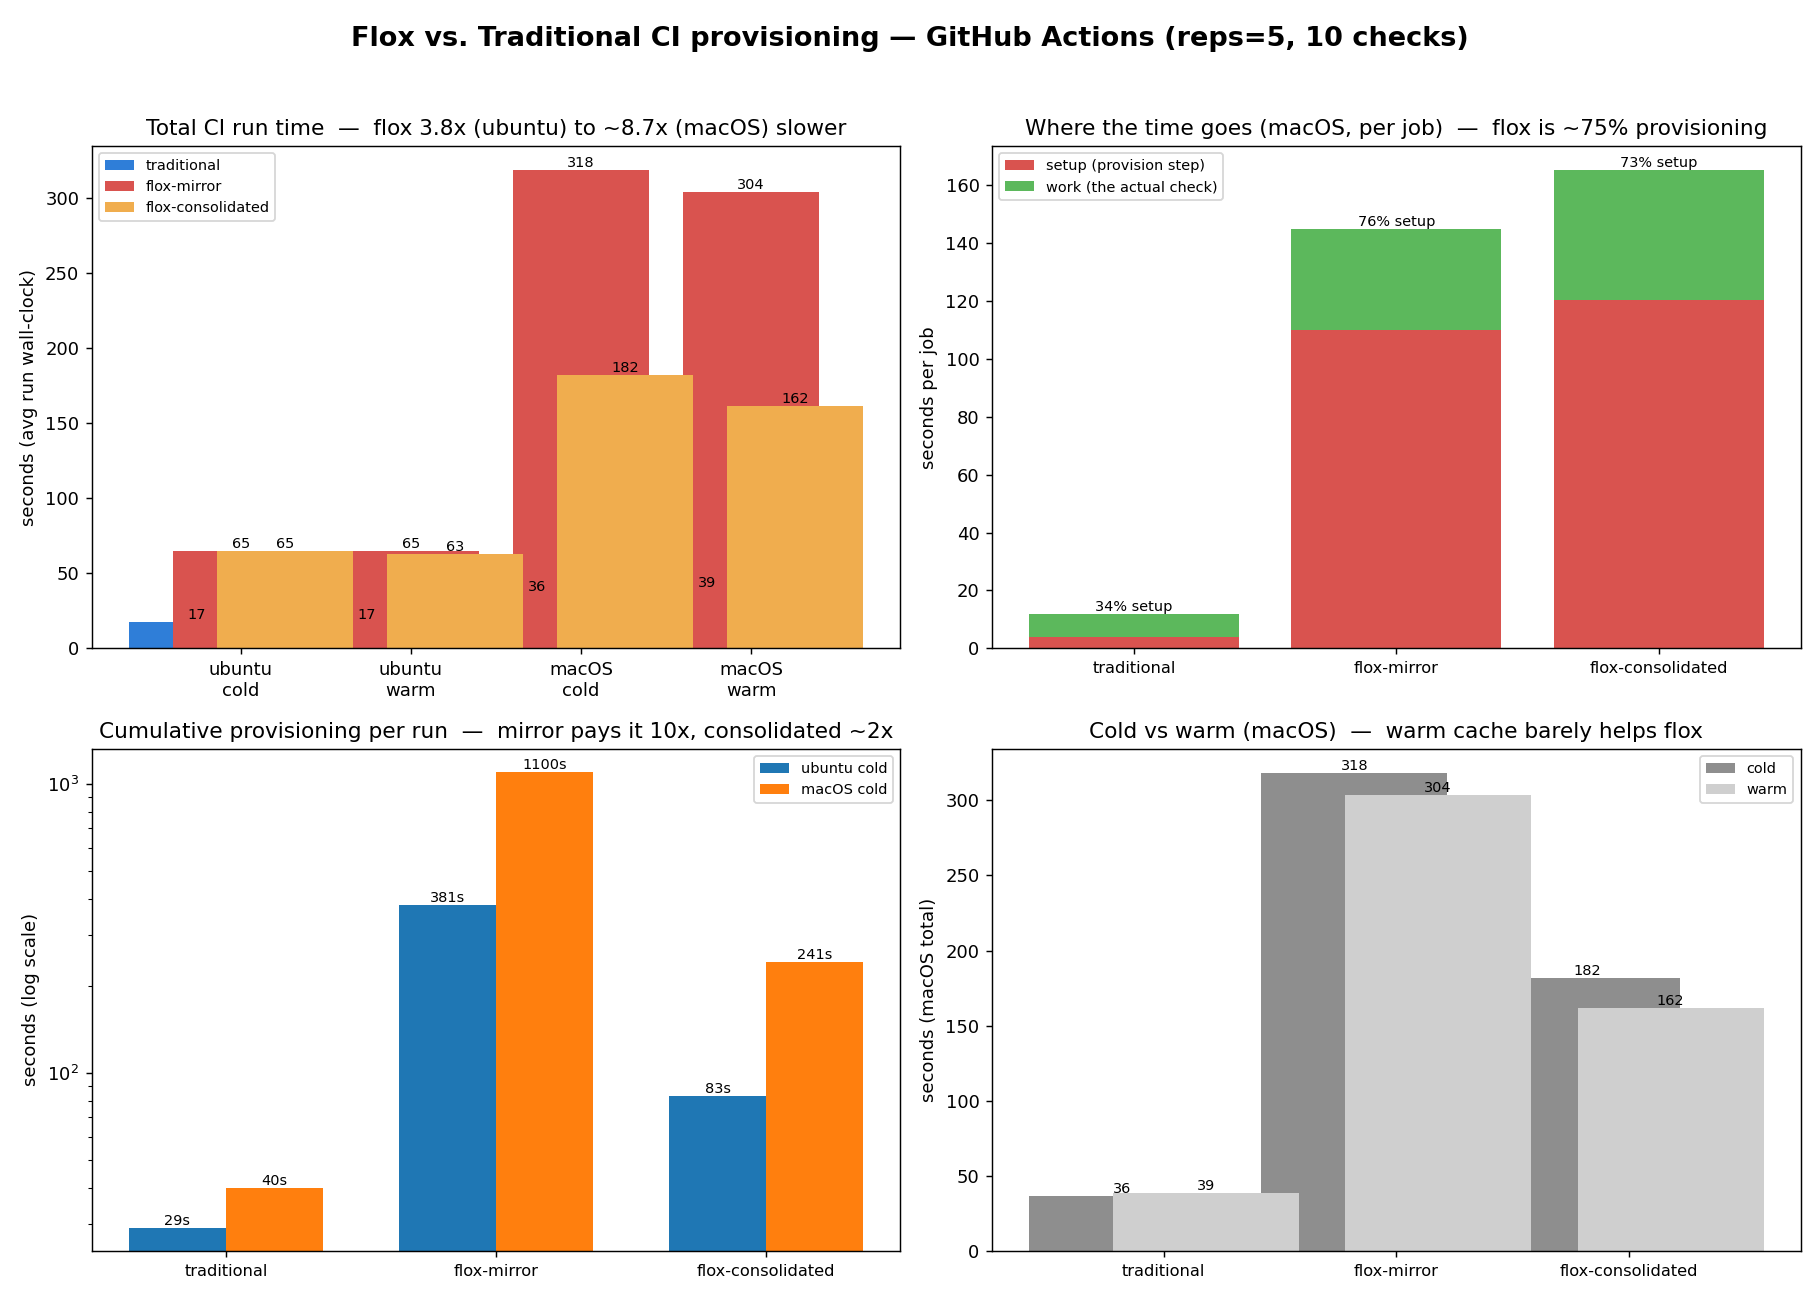
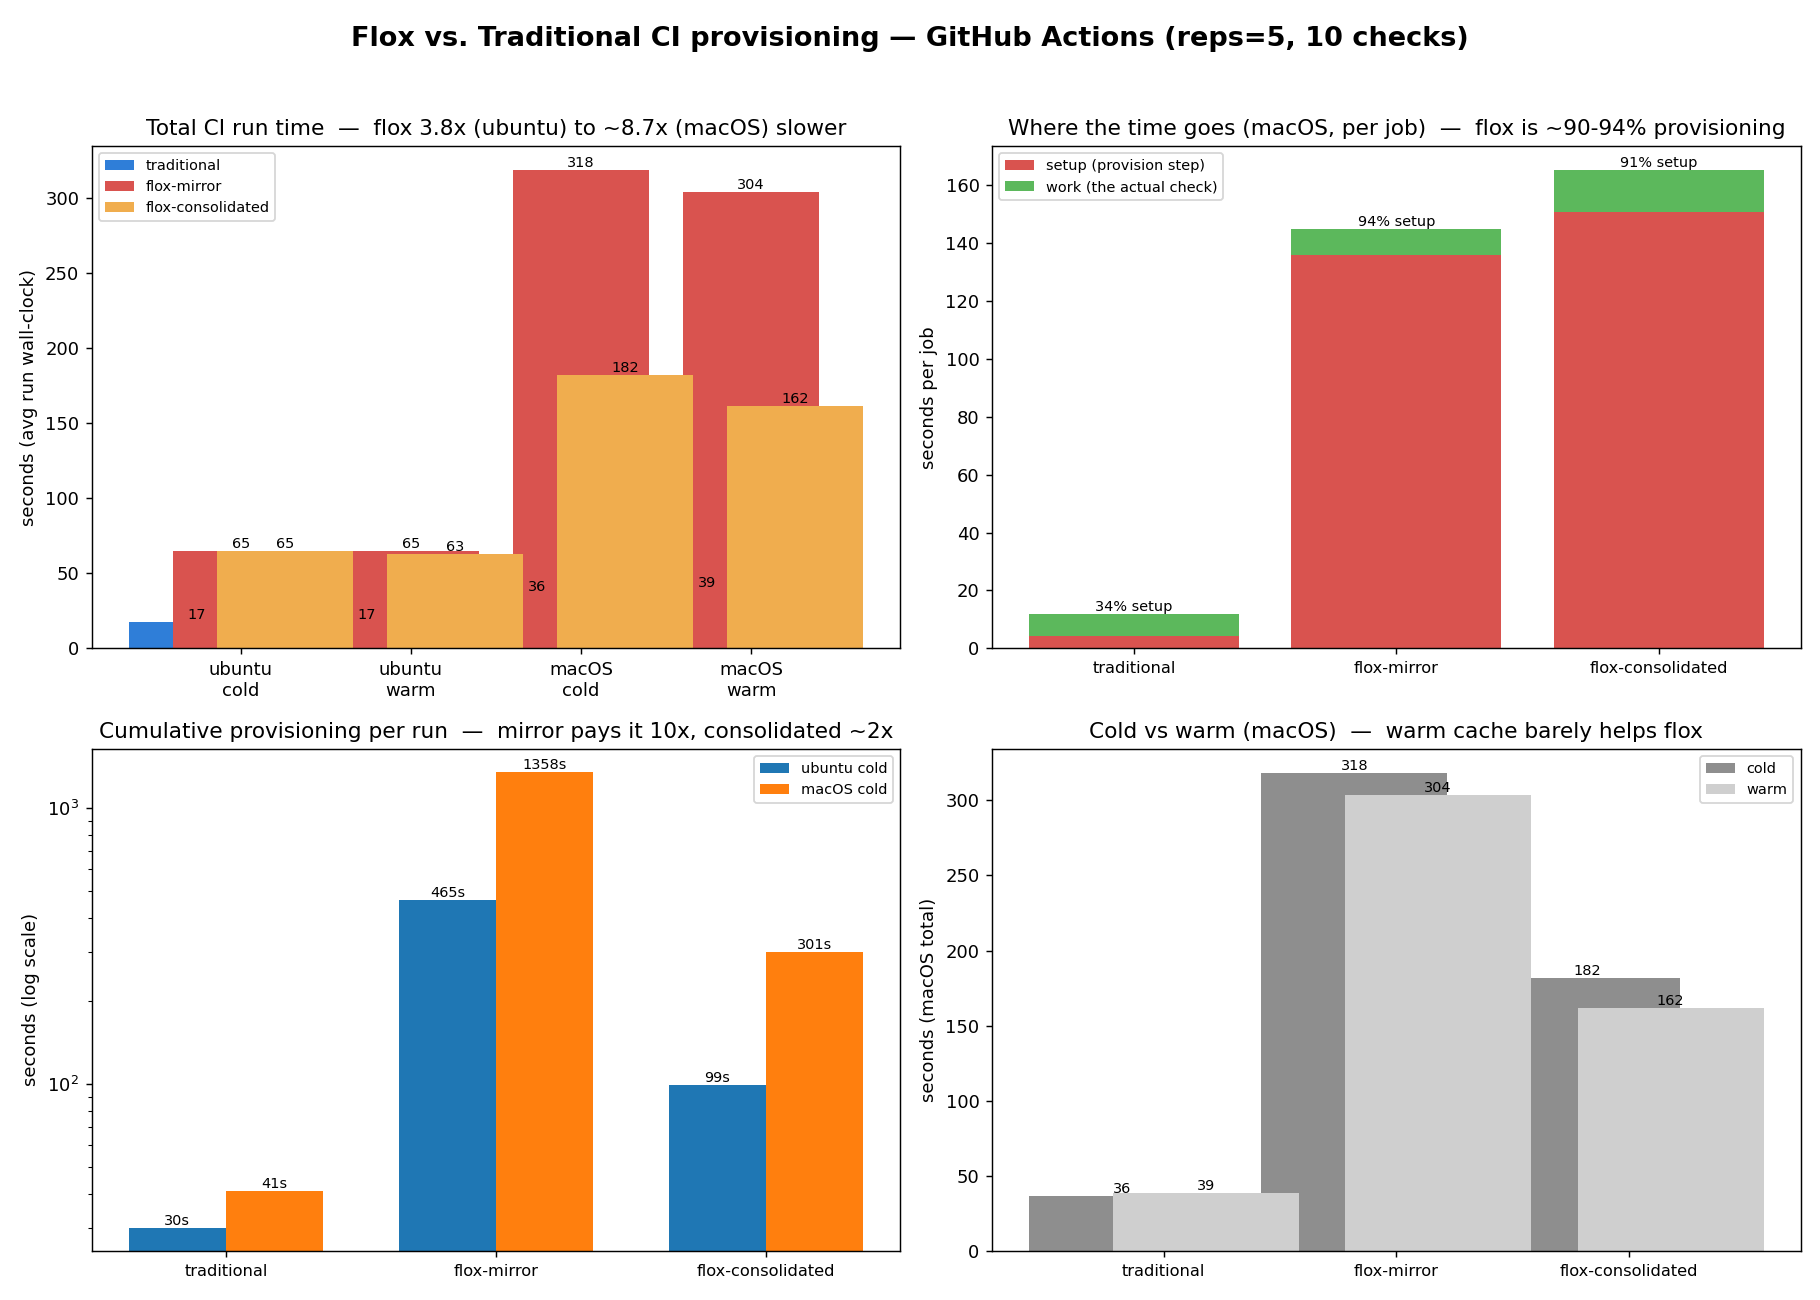
fix(experiment): count cache-save as provisioning; flox checks run equal to traditional

diff --git a/experiment/visualize.py b/experiment/visualize.py
@@ -32,17 +32,18 @@ TOTAL = {
     "flox-mirror": [64.8, 64.6, 318.4, 303.6],
     "flox-consolidated": [64.8, 62.8, 181.6, 161.6],
 }
-# per-job setup / work (macOS cold)
+# per-job setup / work (macOS cold). setup includes BOTH provision pre-step AND
+# the `Post provision` cache-SAVE post-step, so work is only the actual check.
 SETUP_WORK_MAC = {  # side -> (setup, work)
-    "traditional": (4.0, 7.9),
-    "flox-mirror": (110.0, 34.8),
-    "flox-consolidated": (120.3, 45.0),
+    "traditional": (4.1, 7.8),
+    "flox-mirror": (135.8, 9.0),
+    "flox-consolidated": (150.6, 14.7),
 }
 # cumulative provisioning per run (seconds): [ubuntu_cold, macos_cold]
 PROV_RUN = {
-    "traditional": [29, 40],
-    "flox-mirror": [381, 1100],
-    "flox-consolidated": [83, 241],
+    "traditional": [30, 41],
+    "flox-mirror": [465, 1358],
+    "flox-consolidated": [99, 301],
 }
 
 
@@ -97,7 +98,9 @@ def main(out: Path) -> int:
     ax.set_xticks(xs)
     ax.set_xticklabels(SIDES, fontsize=9)
     ax.set_ylabel("seconds per job")
-    ax.set_title("Where the time goes (macOS, per job)  —  flox is ~75% provisioning")
+    ax.set_title(
+        "Where the time goes (macOS, per job)  —  flox is ~90-94% provisioning"
+    )
     ax.legend(fontsize=8)
 
     # Panel C: cumulative provisioning per run (log scale), ubuntu vs macOS cold

diff --git a/experiment/infographic.py b/experiment/infographic.py
@@ -198,8 +198,8 @@ def main(out: Path) -> int:
         40,
         44,
         6,
-        "1 declarative manifest+lock · FULL env per activation · "
-        "Nix store · ~38s ubuntu / ~110s macOS · deterministic",
+        "1 declarative manifest+lock · FULL env every activation · Nix store · "
+        "~46s ubuntu / ~136s macOS provisioning/job · deterministic",
         "#f4f4f4",
         ec=FLOX,
         fs=8.5,
@@ -216,11 +216,11 @@ def main(out: Path) -> int:
         weight="bold",
     )
     data = [
-        ("traditional", 4.0, 7.9, TRAD),
-        ("flox-mirror", 110.0, 34.8, FLOX),
-        ("flox-consolidated", 120.3, 45.0, "#f0ad4e"),
+        ("traditional", 4.1, 7.8, TRAD),
+        ("flox-mirror", 135.8, 9.0, FLOX),
+        ("flox-consolidated", 150.6, 14.7, "#f0ad4e"),
     ]
-    maxv = 170.0
+    maxv = 175.0
     for i, (name, setup, work, _c) in enumerate(data):
         yy = 28 - i * 5.5
         ws = 42 * setup / maxv
@@ -252,7 +252,7 @@ def main(out: Path) -> int:
         "   script) vs 1 declarative manifest + lockfile.",
         "Source: PyPI / npm / GitHub releases at runtime",
         "   vs content-addressed Nix store (cached).",
-        "Cost: ~3s/job  vs  ~38s ubuntu to ~110s macOS per job.",
+        "Cost: ~3s/job  vs  ~46s ubuntu to ~136s macOS per job.",
         "Reliability: runtime downloads flake (editorconfig pulled",
         "   ~45%); Nix store is deterministic (0 flox failures).",
         "Maintenance: 4 scripts + scattered version pins",

diff --git a/experiment/bench/collect.py b/experiment/bench/collect.py
@@ -35,8 +35,13 @@ def parse_jobs(jobs_json: dict) -> list[JobTiming]:
         secs = duration_seconds(job["started_at"], job["completed_at"])
         setup = 0.0
         for step in job.get("steps", []):
+            name = step.get("name") or ""
+            # Count BOTH the pre-step ("provision (flox)") and the post-step
+            # ("Post provision (flox)" — the actions/cache SAVE of the Nix store)
+            # as provisioning, so `work` reflects only the actual check, not the
+            # cache-save overhead. Substring match catches the "Post " prefix.
             if (
-                step.get("name") in SETUP_STEP_NAMES
+                any(tag in name for tag in SETUP_STEP_NAMES)
                 and step.get("started_at")
                 and step.get("completed_at")
             ):

diff --git a/experiment/FINDINGS.md b/experiment/FINDINGS.md
@@ -4,10 +4,12 @@
 (Nix-based) instead of the traditional per-tool installs (`setup-uv`, `setup-just`,
 `bunx`, release-download scripts) make GitHub Actions faster or slower? Informs ADR-12.
 
-**TL;DR:** Flox is **3.8× slower on ubuntu and up to ~8.7× slower on macOS**, because
-**~75% of every flox job is provisioning** (the `flox` install/activate step). Traditional
-wins decisively on speed; Flox wins decisively on reliability (0 failures vs traditional's
-flaky binary downloads). Consolidating flox activations is the single biggest mitigation.
+**TL;DR:** Flox is **3.8× slower on ubuntu and up to ~8.7× slower on macOS** — and it's
+**~90–94% provisioning**: the actual checks run at the *same speed* on both sides
+(see root-cause below); essentially all of flox's cost is installing/activating the env
+and saving its Nix store to cache. Traditional wins decisively on speed; Flox wins
+decisively on reliability (0 failures vs traditional's flaky binary downloads).
+Consolidating flox activations is the single biggest mitigation.
 
 ## Method
 
@@ -31,14 +33,34 @@ flaky binary downloads). Consolidating flox activations is the single biggest mi
 
 ## Results — provisioning (setup) vs work
 
-`setup` = the `provision` step (flox install/activate, or setup-uv/just/bun).
+`setup` = all provisioning: the `provision` step (flox install/activate, or
+setup-uv/just/bun) **plus** the `Post provision` cache-save step.
 `provisioning/run` = setup summed across all jobs in a run (cumulative billable cost).
 
 | side | setup/job (ubuntu) | setup/job (macOS) | setup % of job | provisioning/run (ubuntu) | provisioning/run (macOS) |
 | --- | ---: | ---: | ---: | ---: | ---: |
-| traditional | ~3s | ~4–5s | 33–39% | ~30s | ~40–48s |
-| flox-mirror | ~38s | ~110s | 74–77% | ~381s | **~1100s** |
-| flox-consolidated | ~41s | ~120s | 71–74% | ~82s | ~225s |
+| traditional | ~3s | ~4–5s | 34–41% | ~30s | ~41–50s |
+| flox-mirror | ~47s | ~130s | **90–94%** | ~465–476s | **~1288–1358s** |
+| flox-consolidated | ~49s | ~129–151s | 85–91% | ~97–99s | ~258–301s |
+
+## Root cause — why flox "work" looked longer (it isn't)
+
+The checks themselves run at the **same speed** regardless of provisioning. Per-step,
+same check, macOS cold:
+
+| step | flox-mirror | traditional |
+| --- | ---: | ---: |
+| `provision` (install + activate) | 97–136s | 3–4s |
+| **`run` (the actual check)** | **identical** — ruff 1s=1s · codespell 0s=0s · yamllint 1s=1s · ty 2s≈1s · pytest 10s≈6s | — |
+| `Post provision` (cache **save**) | 19–39s | 0s |
+
+The "longer flox work" in an earlier cut was a **measurement artifact**: the per-job
+split only subtracted the *pre*-step `provision (flox)` from the total, so the *post*-step
+**`Post provision (flox)` — the `actions/cache` step that saves the ~Nix store (19–39s on
+macOS) — leaked into "work."** Counting that cache-save as provisioning (it is) makes work
+fall to ~5s ubuntu / ~8–9s per job — **equal to traditional** — and pushes flox's setup to
+~90–94%. Conclusion: **flox doesn't run the checks slower; ~all of its CI cost is
+provisioning** (install + activate + cache-save).
 
 ## Results — reliability
 
@@ -66,20 +88,21 @@ flaky binary downloads). Consolidating flox activations is the single biggest mi
   + `flox activate` materializes the **entire** toolchain from the content-addressed Nix
   store on every activation (python312, uv, ruff, taplo, gitleaks, bun, commitlint, yamllint,
   codespell, bandit, just, lefthook, gh, editorconfig-checker, gnumake), then runs each check
-  as a bare command. ~38s ubuntu / ~110s macOS per activation, deterministic. (`ty` & `pytest`
-  come from `uv run` either way — project deps, not flox-managed: the uv/flox boundary.)
+  as a bare command. ~46s ubuntu / ~136s macOS provisioning per job (install + activate +
+  cache-save), deterministic. (`ty` & `pytest` come from `uv run` either way — project deps,
+  not flox-managed: the uv/flox boundary.)
 - **Major differences:** granularity (only-needed-tool vs whole-env-every-time) · mechanism
   (4 installers vs 1 manifest) · source (runtime PyPI/npm/GitHub vs Nix store) · cost
-  (~3s vs ~38–110s/job) · reliability (flaky downloads vs deterministic) · maintenance
+  (~3s vs ~46–136s/job) · reliability (flaky downloads vs deterministic) · maintenance
   (4 scripts + scattered version pins vs one `manifest.toml` + `manifest.lock`).
 
 ## Key findings
 
-1. **The flox CI tax is provisioning, not the checks.** ~75% of each flox job is the
-   `flox` install/activate step; the actual check work (~13s ubuntu, ~33s macOS) is small
-   and comparable to traditional. Traditional tool installs are ~3–5s.
-2. **macOS is where Flox hurts most.** Per-job flox setup is ~110s on macOS vs ~38s on
-   ubuntu (Nix-on-macOS cold build), pushing flox-mirror to ~8.7× slower.
+1. **The flox CI tax is provisioning, not the checks.** ~90–94% of each flox job is
+   provisioning (install + activate + cache-save); the actual check `run` step is **equal to
+   traditional** (e.g. ruff 1s, codespell 0s, ty ~2s — same both sides). See Root cause.
+2. **macOS is where Flox hurts most.** Per-job flox provisioning is ~130s on macOS vs ~47s
+   on ubuntu (Nix-on-macOS cold build + larger cache save), pushing flox-mirror to ~8.7×.
 3. **Consolidation is the decisive lever — where provisioning is costly.** mirror and
    consolidated have ~equal per-job setup, but mirror pays it 10× (1100s/run on macOS) vs
    consolidated ~2× (225s/run). Identical work, ~4.5× less provisioning. On ubuntu the two

diff --git a/experiment/results/REPORT.md b/experiment/results/REPORT.md
@@ -23,18 +23,18 @@ setup = the `provision` step (flox install/activate, or setup-uv/just/bun); work
 
 | side | os | cache | jobs | avg setup/job | avg work/job | setup % | total provisioning/run |
 | --- | --- | --- | ---: | ---: | ---: | ---: | ---: |
-| flox-consolidated | macos-latest | cold | 2 | 120.3s | 45.0s | 73% | 241s |
-| flox-mirror | macos-latest | cold | 10 | 110.0s | 34.8s | 76% | 1100s |
-| traditional | macos-latest | cold | 10 | 4.0s | 7.9s | 33% | 40s |
-| flox-consolidated | macos-latest | warm | 2 | 105.2s | 36.4s | 74% | 210s |
-| flox-mirror | macos-latest | warm | 10 | 104.7s | 31.9s | 77% | 1047s |
-| traditional | macos-latest | warm | 10 | 4.8s | 7.5s | 39% | 48s |
-| flox-consolidated | ubuntu-latest | cold | 2 | 41.3s | 16.7s | 71% | 83s |
-| flox-mirror | ubuntu-latest | cold | 10 | 38.1s | 13.5s | 74% | 381s |
-| traditional | ubuntu-latest | cold | 10 | 2.9s | 5.5s | 34% | 29s |
-| flox-consolidated | ubuntu-latest | warm | 2 | 40.3s | 16.2s | 71% | 81s |
-| flox-mirror | ubuntu-latest | warm | 10 | 39.3s | 13.4s | 75% | 393s |
-| traditional | ubuntu-latest | warm | 10 | 3.1s | 5.4s | 37% | 31s |
+| flox-consolidated | macos-latest | cold | 2 | 150.6s | 14.7s | 91% | 301s |
+| flox-mirror | macos-latest | cold | 10 | 135.8s | 9.0s | 94% | 1358s |
+| traditional | macos-latest | cold | 10 | 4.1s | 7.8s | 34% | 41s |
+| flox-consolidated | macos-latest | warm | 2 | 128.8s | 12.8s | 91% | 258s |
+| flox-mirror | macos-latest | warm | 10 | 128.8s | 7.8s | 94% | 1288s |
+| traditional | macos-latest | warm | 10 | 5.0s | 7.3s | 41% | 50s |
+| flox-consolidated | ubuntu-latest | cold | 2 | 49.3s | 8.7s | 85% | 99s |
+| flox-mirror | ubuntu-latest | cold | 10 | 46.5s | 5.1s | 90% | 465s |
+| traditional | ubuntu-latest | cold | 10 | 3.0s | 5.3s | 36% | 30s |
+| flox-consolidated | ubuntu-latest | warm | 2 | 48.3s | 8.2s | 85% | 97s |
+| flox-mirror | ubuntu-latest | warm | 10 | 47.6s | 5.1s | 90% | 476s |
+| traditional | ubuntu-latest | warm | 10 | 3.3s | 5.2s | 39% | 33s |
 
 ## Per-job breakdown (total job seconds)
 